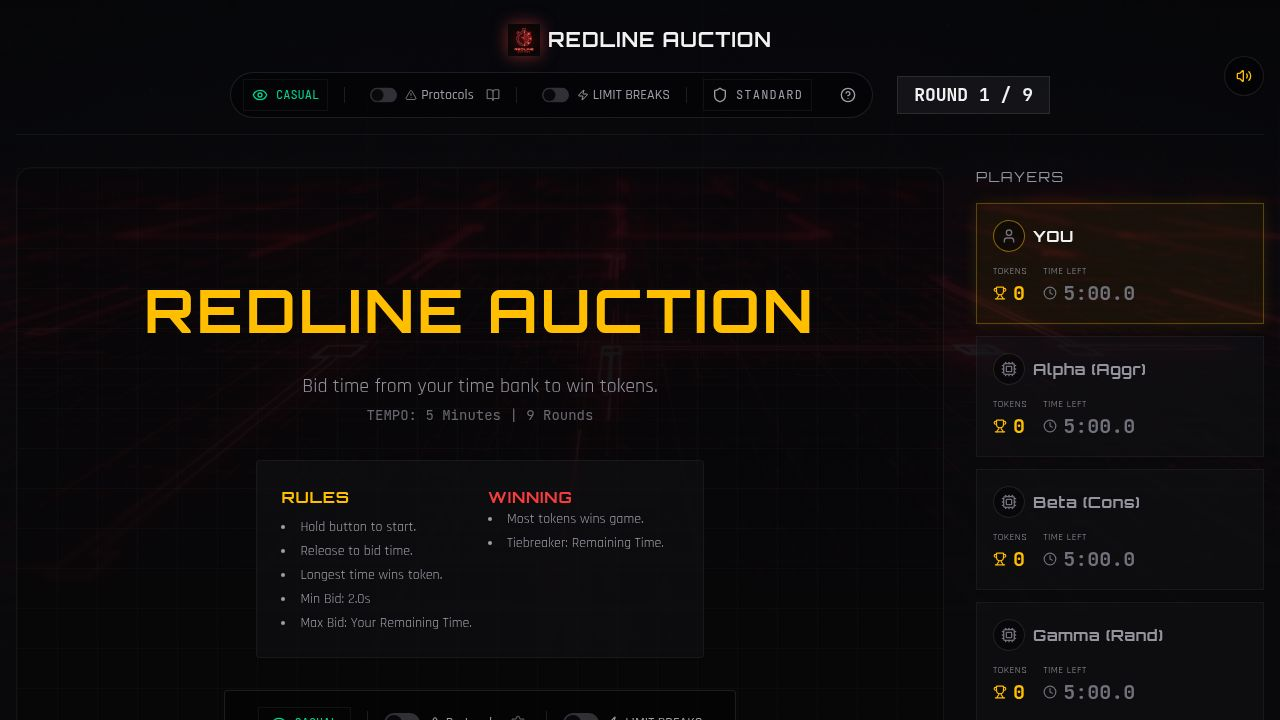
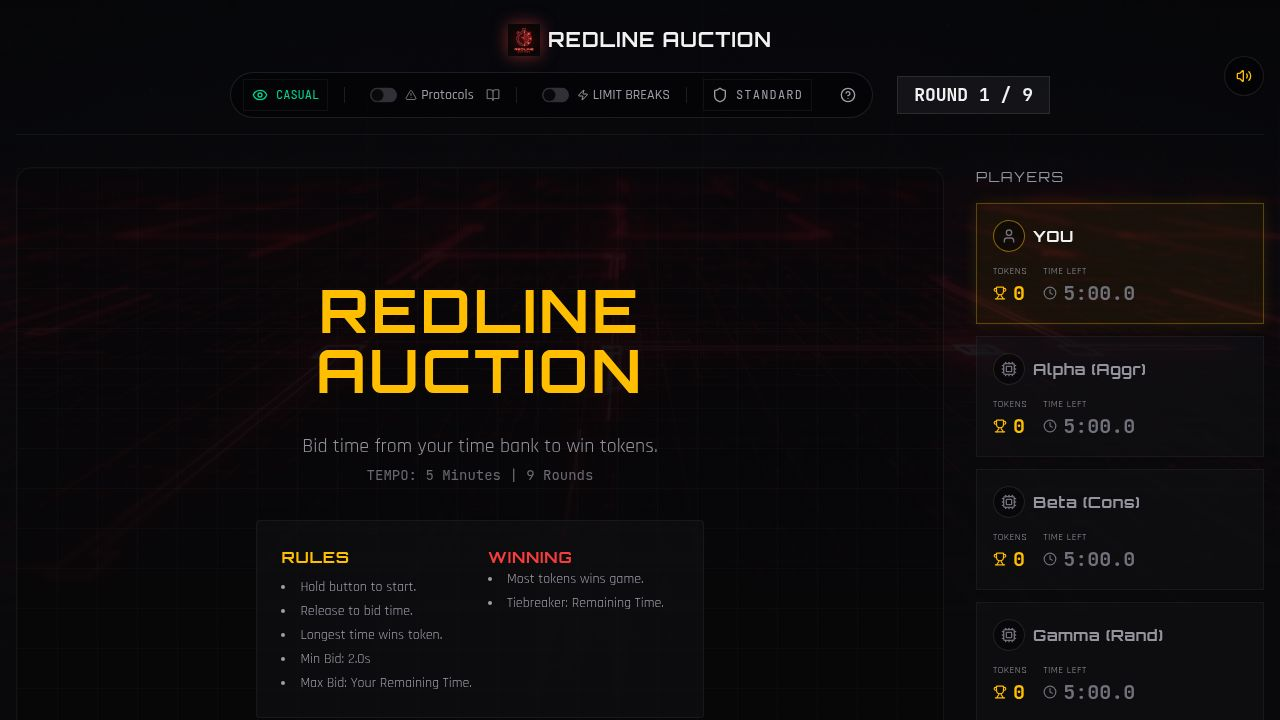
Improve multiplayer game flow and ability display
Update multiplayer game state to include allHumansHoldingStartTime, adjust the ready progress bar duration to 3 seconds, and ensure round impact and ability used are correctly broadcast and displayed on client player cards.

Replit-Commit-Author: Agent
Replit-Commit-Session-Id: 93fde06e-f154-4415-b6ad-b29061c531df
Replit-Commit-Checkpoint-Type: intermediate_checkpoint
Replit-Commit-Event-Id: 85cbd8c8-1611-42ae-82c5-4ca2c79d4004
Replit-Commit-Screenshot-Url: https://storage.googleapis.com/screenshot-production-us-central1/4e6a843e-db8d-4d3c-ab89-239354a908ce/93fde06e-f154-4415-b6ad-b29061c531df/CLM7ILc
Replit-Helium-Checkpoint-Created: true

diff --git a/client/src/pages/Game.tsx b/client/src/pages/Game.tsx
@@ -743,6 +743,7 @@ export default function Game() {
       isHolding: boolean;
       totalTimeBid: number;
       abilityUsed: boolean;
+      roundImpact?: { type: string; value: number; source: string };
     }>;
     roundWinner: { id: string; name: string; bid: number } | null;
     eliminatedThisRound: string[];
@@ -765,6 +766,7 @@ export default function Game() {
     }>;
     isDoubleTokensRound: boolean;
     molePlayerId: string | null;
+    allHumansHoldingStartTime: number | null;
   } | null>(null);
   
   // Socket connection
@@ -2902,8 +2904,9 @@ export default function Game() {
         currentBid: mp.currentBid,
         isHolding: mp.isHolding,
         totalTimeBid: (mp as any).totalTimeBid || 0,
-        totalImpactGiven: (mp as any).roundImpact?.value > 0 ? (mp as any).roundImpact.value : 0,
-        totalImpactReceived: (mp as any).roundImpact?.value < 0 ? Math.abs((mp as any).roundImpact.value) : 0,
+        totalImpactGiven: mp.roundImpact?.value && mp.roundImpact.value > 0 ? mp.roundImpact.value : 0,
+        totalImpactReceived: mp.roundImpact?.value && mp.roundImpact.value < 0 ? Math.abs(mp.roundImpact.value) : 0,
+        roundImpact: mp.roundImpact ? `${mp.roundImpact.value > 0 ? '+' : ''}${mp.roundImpact.value.toFixed(1)}s (${mp.roundImpact.source})` : undefined,
         specialEvents: [],
         eventDatabasePopups: [],
         protocolsTriggered: [],
@@ -3127,17 +3130,19 @@ export default function Game() {
         <div className="flex flex-col items-center justify-center h-[450px]">
           <div className="h-[100px] flex flex-col items-center justify-center space-y-2">
             <h2 className="text-3xl font-display">ROUND {multiplayerGameState?.round || 1} / {multiplayerGameState?.totalRounds || totalRounds}</h2>
-            {/* Ready Progress Bar - shows when all humans are holding */}
+            {/* Ready Progress Bar - shows when all humans are holding for 3 seconds */}
             <div className="h-6 flex items-center justify-center">
-              {allHumansReady ? (
+              {allHumansReady && multiplayerGameState?.allHumansHoldingStartTime ? (
                 <div className="w-64 h-2 bg-zinc-800 rounded-full overflow-hidden">
                   <motion.div 
-                    className="h-full bg-primary"
+                    className="h-full bg-yellow-400"
                     initial={{ width: 0 }}
                     animate={{ width: '100%' }}
-                    transition={{ duration: 1, ease: 'linear' }}
+                    transition={{ duration: 3, ease: 'linear' }}
                   />
                 </div>
+              ) : allHumansReady ? (
+                <p className="text-yellow-400 text-sm">Hold for 3 seconds to start...</p>
               ) : (
                 <p className="text-muted-foreground text-sm">All players must hold button to start</p>
               )}
@@ -3370,10 +3375,10 @@ export default function Game() {
                 {gameDuration === 'long' && "MARATHON: 10 Minutes | 18 Rounds"}
               </span>
             </p>
-            <div className="grid grid-cols-1 sm:grid-cols-2 gap-4 text-left bg-card/50 p-4 sm:p-6 rounded border border-white/5">
-               <div className="space-y-2">
-                <h3 className="text-primary font-bold text-sm sm:text-base">Rules</h3>
-                <ul className="list-disc list-inside text-xs sm:text-sm text-zinc-400 space-y-1">
+            <div className="grid grid-cols-2 gap-2 sm:gap-4 text-left bg-card/50 p-3 sm:p-6 rounded border border-white/5">
+               <div className="space-y-1 sm:space-y-2">
+                <h3 className="text-primary font-bold text-xs sm:text-base">Rules</h3>
+                <ul className="list-disc list-inside text-[10px] sm:text-sm text-zinc-400 space-y-0.5 sm:space-y-1">
                   <li>Hold button to start.</li>
                   <li>Release to bid time.</li>
                   <li>Longest time wins token.</li>
@@ -3381,10 +3386,10 @@ export default function Game() {
                   <li>Max Bid: Your Remaining Time.</li>
                 </ul>
               </div>
-              <div className="space-y-2 flex flex-col justify-between">
+              <div className="space-y-1 sm:space-y-2 flex flex-col justify-between">
                 <div>
-                  <h3 className="text-destructive font-bold text-sm sm:text-base">Winning</h3>
-                  <ul className="list-disc list-inside text-xs sm:text-sm text-zinc-400 space-y-1">
+                  <h3 className="text-destructive font-bold text-xs sm:text-base">Winning</h3>
+                  <ul className="list-disc list-inside text-[10px] sm:text-sm text-zinc-400 space-y-0.5 sm:space-y-1">
                     <li>Most tokens wins game.</li>
                     <li>Tiebreaker: Remaining Time.</li>
                   </ul>
@@ -4400,18 +4405,22 @@ export default function Game() {
              {/* Timer Area */}
              <div className="h-[100px] flex items-center justify-center mb-4">
                 {isMultiplayer ? (
-                  // Multiplayer: Show auction time box same as singleplayer
-                  <div className={cn("flex flex-col items-center justify-center p-4 rounded-lg glass-panel border-accent/20 bg-black/40 w-[320px]", isBlackout && "border-destructive/20")}>
-                    <span className={cn("text-muted-foreground text-xs tracking-[0.2em] font-display mb-1", isBlackout && "text-destructive")}>
-                      {isBlackout ? "SYSTEM ERROR" : "AUCTION TIME"}
-                    </span>
-                    <div className={cn("text-5xl font-mono font-bold", isBlackout ? "text-destructive/50" : "text-primary")}>
-                      {isBlackout ? "ERROR" : `${displayTime.toFixed(1)}s`}
+                  // Multiplayer: Match singleplayer - show time for first 10 seconds, then ??
+                  displayTime <= 10 && !isBlackout ? (
+                    <TimerDisplay time={displayTime} isRunning={true} />
+                  ) : (
+                    <div className={cn("flex flex-col items-center justify-center p-4 rounded-lg glass-panel border-accent/20 bg-black/40 w-[320px]", isBlackout && "border-destructive/20")}>
+                      <span className={cn("text-muted-foreground text-xs tracking-[0.2em] font-display mb-1", isBlackout && "text-destructive")}>
+                        {isBlackout ? "SYSTEM ERROR" : "AUCTION TIME"}
+                      </span>
+                      <div className={cn("text-4xl font-mono text-zinc-700", isBlackout ? "text-destructive/50" : "")}>
+                        {isBlackout ? "ERROR" : "??:??.?"}
+                      </div>
+                      {!currentPlayerIsHolding && !isBlackout && (
+                        <span className="text-xs text-green-400 mt-1">BID LOCKED</span>
+                      )}
                     </div>
-                    {!currentPlayerIsHolding && !isBlackout && (
-                      <span className="text-xs text-green-400 mt-1">BID LOCKED</span>
-                    )}
-                  </div>
+                  )
                 ) : showDetails && !isBlackout && currentTime <= 10 ? (
                   <TimerDisplay time={currentTime} isRunning={true} />
                 ) : (

diff --git a/server/gameEngine.ts b/server/gameEngine.ts
@@ -172,6 +172,7 @@ export interface GameState {
   gameLog: GameLogEntry[];
   isDoubleTokensRound: boolean;
   molePlayerId: string | null;
+  allHumansHoldingStartTime: number | null; // Track when all humans started holding
 }
 
 // Active games storage
@@ -281,6 +282,7 @@ export function createGame(
     gameLog: [],
     isDoubleTokensRound: false,
     molePlayerId: null,
+    allHumansHoldingStartTime: null,
   };
   
   activeGames.set(lobbyCode, gameState);
@@ -985,9 +987,27 @@ function startWaitingForReady(lobbyCode: string) {
     const allHumansHolding = humanPlayers.every(p => p.isHolding);
     
     if (allHumansHolding && humanPlayers.length > 0) {
-      clearInterval(readyCheckInterval);
-      log(`All human players ready in lobby ${lobbyCode}, starting countdown`, "game");
-      startCountdown(lobbyCode);
+      // Track when all humans started holding
+      if (g.allHumansHoldingStartTime === null) {
+        g.allHumansHoldingStartTime = Date.now();
+        log(`All human players holding, starting 3-second countdown in lobby ${lobbyCode}`, "game");
+        broadcastGameState(lobbyCode);
+      }
+      
+      // Check if they've been holding for 3 seconds
+      const holdDuration = (Date.now() - g.allHumansHoldingStartTime) / 1000;
+      if (holdDuration >= 3) {
+        clearInterval(readyCheckInterval);
+        g.allHumansHoldingStartTime = null;
+        log(`All human players held for 3 seconds in lobby ${lobbyCode}, starting countdown`, "game");
+        startCountdown(lobbyCode);
+      }
+    } else {
+      // Reset the timer if someone let go
+      if (g.allHumansHoldingStartTime !== null) {
+        g.allHumansHoldingStartTime = null;
+        broadcastGameState(lobbyCode);
+      }
     }
   }, 100);
   
@@ -1184,12 +1204,15 @@ function broadcastGameState(lobbyCode: string) {
       currentBid: p.currentBid,
       isHolding: p.isHolding,
       roundEndAcknowledged: (p as any).roundEndAcknowledged || false,
+      roundImpact: p.roundImpact,
+      abilityUsed: p.abilityUsed,
     })),
     roundWinner: game.roundWinner,
     eliminatedThisRound: game.eliminatedThisRound,
     gameLog: game.gameLog,
     activeProtocol: game.activeProtocol,
     settings: game.settings,
+    allHumansHoldingStartTime: game.allHumansHoldingStartTime,
   };
   
   emitToLobby(lobbyCode, 'game_state', stateForClients);
